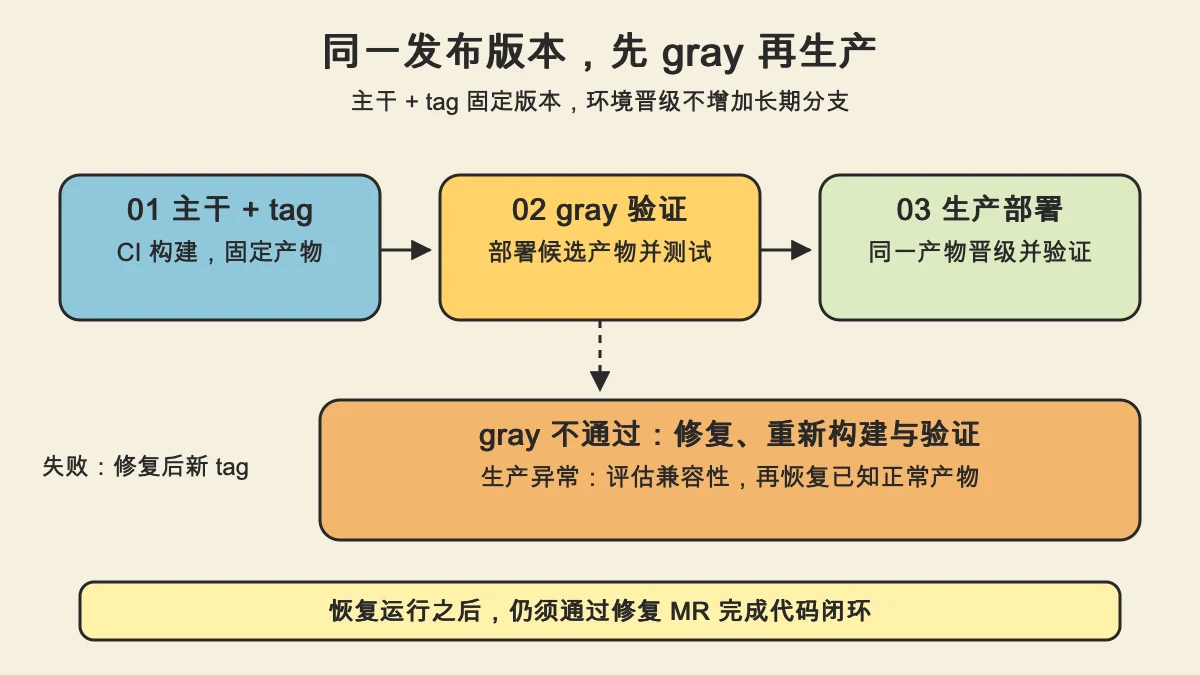
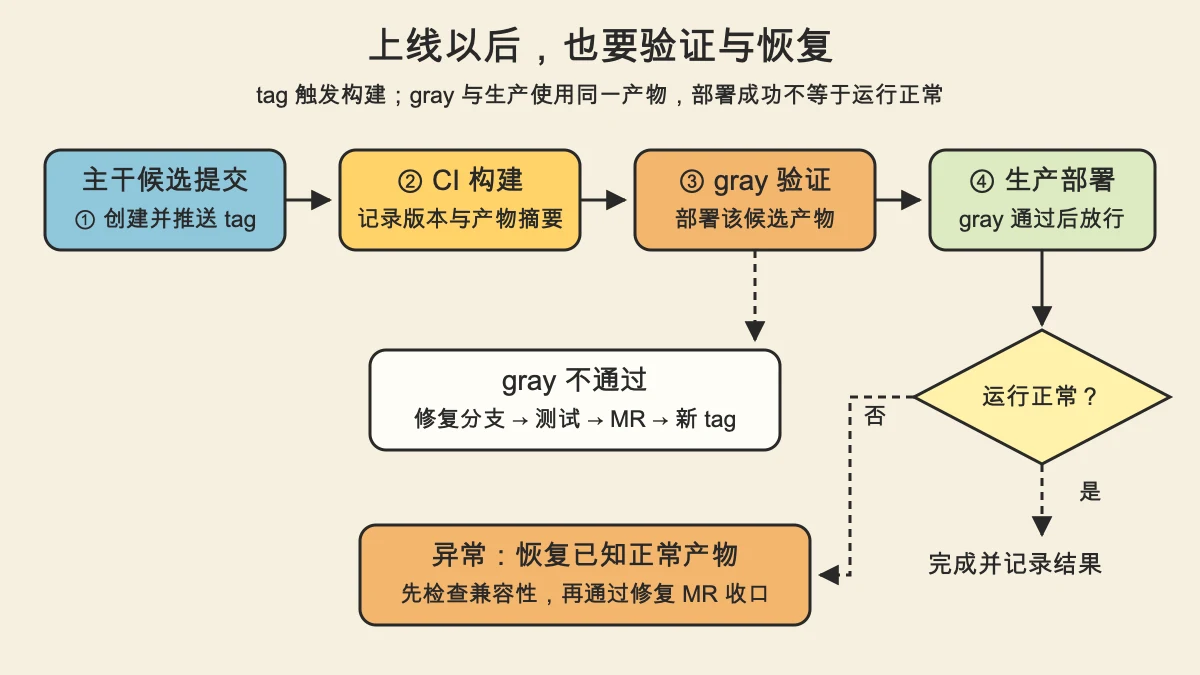
docs: restore source workflow loops and shorten the main reading path

diff --git a/_posts/zh-CN/2026-09-14-sprint-git-flow.md b/_posts/zh-CN/2026-09-14-sprint-git-flow.md
@@ -15,99 +15,52 @@ image:
 toc: true
 ---
 
-多人或 AI 同时开发时，测试环境里常常既有已完成的修复，也有还不能上线的功能。我们需要的不是“等大家一起结束”，而是让已准备好的改动可以先发布。
+**从主干拆分改动，一起测试，准备好的分别上线。** 这套 Flow 在我们的团队中取得了良好实践效果，适合共享测试、分批发布的小团队，不是 Git 标准流程。
 
-这套 Flow 在我们的团队中取得了良好的实践效果。下面用两个假设案例说明它解决什么问题，再看环境绑定和发布路径。它是场景化实践，不是 Git 标准流程。
+## Case 1：功能没做完，bug 要先修
 
-## Case 1：功能还没做完，历史 bug 要先上线
+先看一个假设场景：你开发导出报表，同事调整查询接口。联调时发现一个生产环境也存在的历史 bug，但测试分支里还有多项未验收功能。
 
-你增加“导出报表”，同事调整“查询接口”。两项改动在测试环境一起运行时出了问题，排查后又发现一个历史 bug：当前生产版本也能复现，需要优先修复。
+从主干单独创建修复分支，先测试，再让它自己回主干发布。其他功能继续开发，不随修复一起上线。
 
-但 `develop` 已经包含多位同事尚未验收的功能。整体合回主干会夹带这些代码，等待整轮开发结束又会拖住修复。
+## Case 2：AI 并行做，按验收顺序上线
 
-**解决办法是从生产主干单独拆出修复，测试通过后让修复分支自己回主干。共享测试环境里的其他功能，不必跟着它上线。**
+再假设三个 Agent 分别做导出、查询、筛选预设。前两个还在调试，后启动的筛选预设已通过验收且没有未发布依赖，它就可以先上线。
 
-修复仍需走测试和发布前验证；它必须能在生产基线上成立，不能偷偷依赖尚未发布的新接口。修复上线后，其他功能分支同步主干，继续开发。
+**代码完成不等于允许发布。人和 AI 都按验证结果与依赖放行，不按任务启动顺序排队。** 工作目录可以独立，共享测试环境仍要协调占用，验证结果绑定具体版本。
 
-## Case 2：AI 并行做 idea，先开始的不一定先上线
+## 一张图看完流程
 
-现在把三个 idea 分给不同 Agent：导出报表、查询接口、筛选预设。各自在独立分支和工作目录里执行，完成与验收顺序却可能完全不同。
+分支组织代码，环境运行代码。MR 是合并请求（GitHub 称 PR）；tag 是固定版本的标记。图中的测试通过，只允许原开发分支申请回主干，不是把整个测试分支合回去。
 
-| 任务 | 验收状态 | 下一步 |
+![从主干创建开发分支，合入 develop 测试；失败返回修改，通过后由原分支 MR 回主干，再打 tag 发布](/assets/img/sprint-git-flow/flow.webp)
+
+| 步骤 | 代码怎么走 | 环境与放行条件 |
 |---|---|---|
-| 导出报表 | 组合测试失败 | 修复后重测 |
-| 查询接口 | 仍在开发 | 暂不发布 |
-| 筛选预设 | 后启动、先验收，且无未发布依赖 | 可以先上线 |
+| ① 开发 | 从 master/main 创建 feat / fix / upd | 只包含本次改动 |
+| ② 集成 | 开发分支合入 develop | CI 部署共享测试环境 |
+| ③ 测试 | 不通过就回开发分支修改 | 记录测试版本与结果，修复后重测 |
+| ④ 合并 | 原开发分支 MR 回主干 | 测试、依赖检查与 Code Review 通过 |
+| ⑤ 发布 | 主干打 tag，CI 构建 | gray 验证后，同一产物进入生产并检查运行结果 |
 
-**“代码写完”“验证通过”和“允许发布”是三个不同状态。AI 可以并行实现，发布顺序仍由验收结果和依赖决定，而不是由启动顺序决定。**
+我们当前用 **master/main + tag** 管发布，不要求额外的长期 gray 分支。gray 是发布前验证环境，验证的必须是本次候选版本；tag 不会自动排除已经合入主干的其他功能。
 
-独立 worktree 只隔离工作文件，不隔离共享测试环境。由集成人员或流水线协调部署窗口，每次验收记录具体 commit／产物和结果；环境更新后，旧结果不能直接用来放行新版本。
+### 四条边界，避免用错
 
-两个案例用的是同一条路径：从主干拆分改动，共享测试，分别放行。
+- **依赖没就绪，不能单独上线。** develop 上一起能跑，不代表只发布其中一项也能跑。
+- 紧急修复也先测试、再审查。误合并用修复分支上的 revert 加 MR 处理，不强推回退共享历史。
+- 多个 Agent 不各自覆盖测试环境。协调部署窗口，环境版本变化后重新确认验证结果。
+- Sprint 收尾先盘点未完成分支与必要修复，再从主干重建 develop；未完成分支保留，重新合入后重测。
 
-## 先分清三个环境，以及它们运行的代码
+与经典 GitFlow 的主要差别是：常规功能也从主干拆分，develop 只作测试组合、不整体回主干。经典 GitFlow 本身同样支持 hotfix。
 
-**环境是程序运行的地方，分支用来组织代码，二者通过流水线绑定。多个环境可以验证、部署同一个固定版本，不必各自维护一条长期分支。**
-
-| 代码来源 | 运行位置 | 回答的问题 |
-|---|---|---|
-| 开发分支 | 本地／独立 worktree | 这一项改动是否实现完成？ |
-| develop | 共享测试环境 | 本轮多项改动一起运行是否正常？ |
-| 主干上选定的 tag 产物 | gray（发布前验证环境） | 本次候选版本是否可以上线？ |
-| 同一份已放行产物 | 生产环境 | 用户实际运行的版本是否正常？ |
-
-`master/main` 是开发起点与发布基线，合并不等于部署。MR 是合并请求（GitHub 称 PR）：Source 提供改动，Target 接收改动。tag 固定具体版本，不会自动筛选功能。
-
-![人或 AI 并行开发，固定测试版本后验收，只有放行的分支进入主干并按 tag 发布](/assets/img/sprint-git-flow/flow.webp)
-
-### 与经典 GitFlow 的关键差别
-
-经典 GitFlow 的常规功能从长期 develop 出发，再经 release 进入生产主干。这里所有功能、修复和优化都从主干拆分，develop 只负责测试，不整体回主干。经典 GitFlow 同样支持 hotfix；我们的差异是把独立拆分作为日常路径，而不只用于紧急修复。[模型对比见后文](#workflow-comparison)。
-
-### 把历史 bug 的修复单独送上线
-
-回到开头的场景，假设修复分支叫 `fix/report-query`：
-
-1. 从主干创建它，只提交可以在当前生产版本上成立的修复，不把导出或查询的新功能夹带进来。
-2. 将修复合入 `develop`，在测试环境验证 bug 已修复，也没有破坏正在集成的功能。
-3. 测试与审查通过后，由 `fix/report-query` 发起 MR 回主干，`develop` 上其他未放行功能不随之合入。
-4. 在主干选择只包含已放行改动的候选提交，打 tag、构建，先部署 gray 验证，再将同一产物部署生产。
-
-修复进入主干后，导出和查询两个功能分支同步最新主干，继承这次修复，再继续开发和验证。这样不用让历史 bug 等新功能，也不用把修复重复写在多个功能分支里。
-
-### 可以分批上线，不等于可以忽略依赖
-
-**分批上线的前提，是改动能在生产基线上独立成立。共享测试通过，不代表去掉其他未发布功能后仍然正确。**
-
-如果它调用了同事尚未发布的新接口，就还没有拆干净：要么调整实现，使修复不依赖新功能，要么将依赖一起纳入明确的发布批次。
-
-同样，`develop` 验证的是多个改动的组合，不代表只发布修复时必然正确。gray 应运行“本次实际要上线的版本”，而不是再次运行整个 `develop`。主干若已合入其他准备发布的改动，tag 也会包含它们；要先确认批次内容，tag 本身不会帮你筛选提交。
-
-## 最小发布路径：主干 + tag → gray → 生产
-
-对一条主线、一次推进一个发布批次的小团队，先采用这条路径即可：
-
-1. 开发分支在 `develop` 对应的测试环境验证，通过审查后 MR 回主干。
-2. 发布负责人确认主干上的候选提交及包含的功能，在该提交上创建唯一 tag，触发 CI 构建。
-3. 把这个 tag 对应的产物部署到 gray，验证本次真正要上线的组合。
-4. gray 通过后，将**同一构建产物**部署到生产，再检查实际运行结果。
-
-![主干固定版本后构建一次，gray 验证通过再将同一产物部署生产](/assets/img/sprint-git-flow/release-recovery.webp)
-
-**主干继续开发，已选定的发布版本保持不变。gray 验证通过后，生产应部署同一构建产物，而不是重新构建最新主干。**
-
-环境配置分别注入，gray 和生产的依赖、数据差异仍要检查；不能因为代码相同就认为两个环境完全等价。建议记录 tag、commit、产物摘要和每个环境的部署记录，让“验证过的版本”和“上线的版本”可以对应起来。
-
-例如 `v1.2.3` 是这次候选版本的标签，并不表示它一打出来就已经上线。若 gray 发现缺陷，从主干创建修复分支，经过测试和 MR 后，选择新提交、创建新 tag，重新构建并验证。不要移动旧 tag，也不要让生产重新构建最新主干来代替已验证产物。
-
-### 版本与回滚
-
-例如以 `v1.2.3` 表示一次发布，但具体版本由仓库约定，不能原样照抄。若采用 [Semantic Versioning](https://semver.org/)，PATCH 对应兼容的缺陷修复，MINOR 对应向后兼容的功能增加，MAJOR 对应不兼容的公共 API 变化；“改动很大”不自动等于 MAJOR。
-
-回滚时恢复的是已知正常的构建产物，而不是猜测“时间最新的上一条 tag”。数据库迁移、消息格式或外部副作用未必能随应用镜像一起回退，需要先检查兼容性。恢复运行环境以后，仍要通过修复或 revert MR 让主干与后续发布恢复一致。
+到这里已经可以理解整套流程。下面按需要选择：看选型差异，或展开具体命令与异常处理。
 
 ## 别的团队怎么做：与四种主流模型对比
 {: #workflow-comparison }
+
+<details markdown="1">
+<summary>展开五点定位图与主流模型对比表</summary>
 
 选型先看工作方式：**横轴是迭代组织方式，从单项改动独立推进，到多功能按 Sprint／批次协同；纵轴是发布节奏，从集中窗口发布，到准备好后及时发布。**
 
@@ -127,24 +80,40 @@ toc: true
 
 经典 GitFlow 也有主干 hotfix 路径；AoneFlow 也能按 Sprint 聚合全部功能。选择的关键不是团队人数或模型名字，而是哪一种验证和发布单位更符合实际工作。各模型的一手说明见文末参考资料。
 
-## 是否值得采用
+</details>
 
-共享测试与分批发布是收益；额外的合并、环境排队和分支重建是成本。以下情况不建议直接套用：
+## 适用范围
 
-- 团队已经能稳定地用 Trunk-Based + 自动化测试持续交付；
-- 需要同时维护多个生产版本，且每次发布都要精确挑选功能；
-- 没有独立测试环境，`develop` 只能增加一个名字而不能增加验证能力；
-- 没有人对集成测试结果、主干保护和发布负责。
-
-如果这些条件长期存在，问题不在命令写得不够详细，而在分支模型与团队运行方式不匹配。
-
-## 最后：记住两次合并的不同目的
-
-第一次合入 `develop`，是让大家的改动一起接受测试；第二次由功能分支 MR 回主干，是把放行的改动纳入发布基线。gray 再验证固定的候选版本，通过后才部署生产。分清这两次合并，才能理解为什么开发分支要从主干创建、为什么不能把整个测试分支直接上线。
-
-这套做法在我们的团队中有效，但多一个分支也意味着多一份维护成本。尝试时可以观察一轮迭代：冲突是否更早暴露、测试是否排队、功能能否独立发布。如果共享测试分支并没有带来这些收益，就没有必要为了遵循流程而保留它。
+适合多人集中测试、功能与修复需要分批上线的团队。代价是多一次集成、共享环境协调和周期性重建；已有稳定持续交付、需要复杂多版本维护，或缺少测试环境与负责人时，不宜直接套用。
 
 ## 操作参考：需要执行时再展开
+
+<details markdown="1">
+<summary>发布与回滚：tag、gray、同一产物与生产检查</summary>
+
+
+对一条主线、一次推进一个发布批次的小团队，先采用这条路径即可：
+
+1. 开发分支在 `develop` 对应的测试环境验证，通过审查后 MR 回主干。
+2. 发布负责人确认主干上的候选提交及包含的功能，在该提交上创建唯一 tag，触发 CI 构建。
+3. 把这个 tag 对应的产物部署到 gray，验证本次真正要上线的组合。
+4. gray 通过后，将**同一构建产物**部署到生产，再检查实际运行结果。
+
+![主干 tag 触发 CI 构建，经 gray 进入生产后检查运行结果；正常则记录完成，异常则评估并恢复已知正常产物](/assets/img/sprint-git-flow/release-recovery.webp)
+
+**主干继续开发，已选定的发布版本保持不变。gray 验证通过后，生产应部署同一构建产物，而不是重新构建最新主干。**
+
+环境配置分别注入，gray 和生产的依赖、数据差异仍要检查；不能因为代码相同就认为两个环境完全等价。建议记录 tag、commit、产物摘要和每个环境的部署记录，让“验证过的版本”和“上线的版本”可以对应起来。
+
+例如 `v1.2.3` 是这次候选版本的标签，并不表示它一打出来就已经上线。若 gray 发现缺陷，从主干创建修复分支，经过测试和 MR 后，选择新提交、创建新 tag，重新构建并验证。不要移动旧 tag，也不要让生产重新构建最新主干来代替已验证产物。
+
+### 版本与回滚
+
+例如以 `v1.2.3` 表示一次发布，但具体版本由仓库约定，不能原样照抄。若采用 [Semantic Versioning](https://semver.org/)，PATCH 对应兼容的缺陷修复，MINOR 对应向后兼容的功能增加，MAJOR 对应不兼容的公共 API 变化；“改动很大”不自动等于 MAJOR。
+
+回滚时恢复的是已知正常的构建产物，而不是猜测“时间最新的上一条 tag”。数据库迁移、消息格式或外部副作用未必能随应用镜像一起回退，需要先检查兼容性。恢复运行环境以后，仍要通过修复或 revert MR 让主干与后续发布恢复一致。
+
+</details>
 
 <details markdown="1">
 <summary>可选：确实需要独立 gray 分支时怎么做？</summary>
@@ -173,11 +142,11 @@ toc: true
 
 ### Sprint 开始：建立干净的集成点
 
+![从主干建立 develop，Sprint 收尾盘点工作后协调重建](/assets/img/sprint-git-flow/sprint-cycle.webp)
+
 `develop` 在 Sprint 开始时从最新 `main` 建立。它的生命周期跟 Sprint 绑定，结束后重建，而不是永久保留。
 
 例如上一轮导出功能已经进入主干，查询改动却延期了。如果一直沿用旧 `develop`，新一轮测试仍会默认带上未发布的查询改动。从主干重建后，导出功能自然还在，查询分支则按本轮需要重新纳入，测试环境里有哪些改动就重新变得清楚。
-
-![Sprint 结束盘点并重建 develop，未完成分支保留并重新测试](/assets/img/sprint-git-flow/sprint-cycle.webp)
 
 ### 开发：所有分支从 main 出发
 
